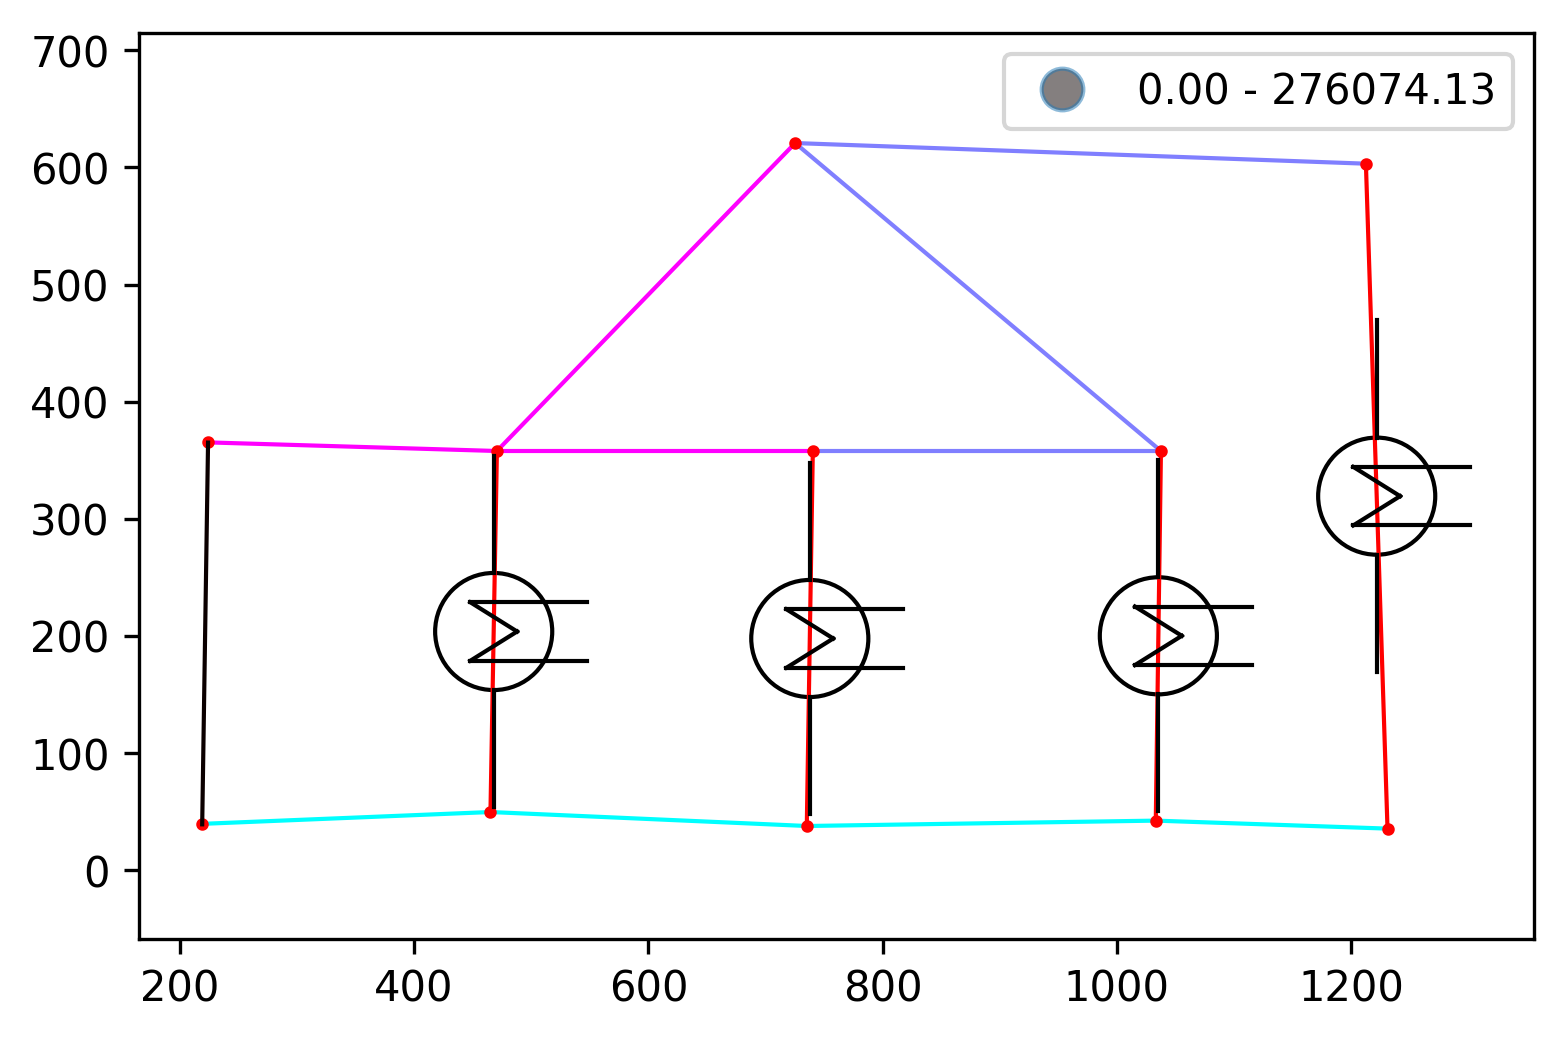
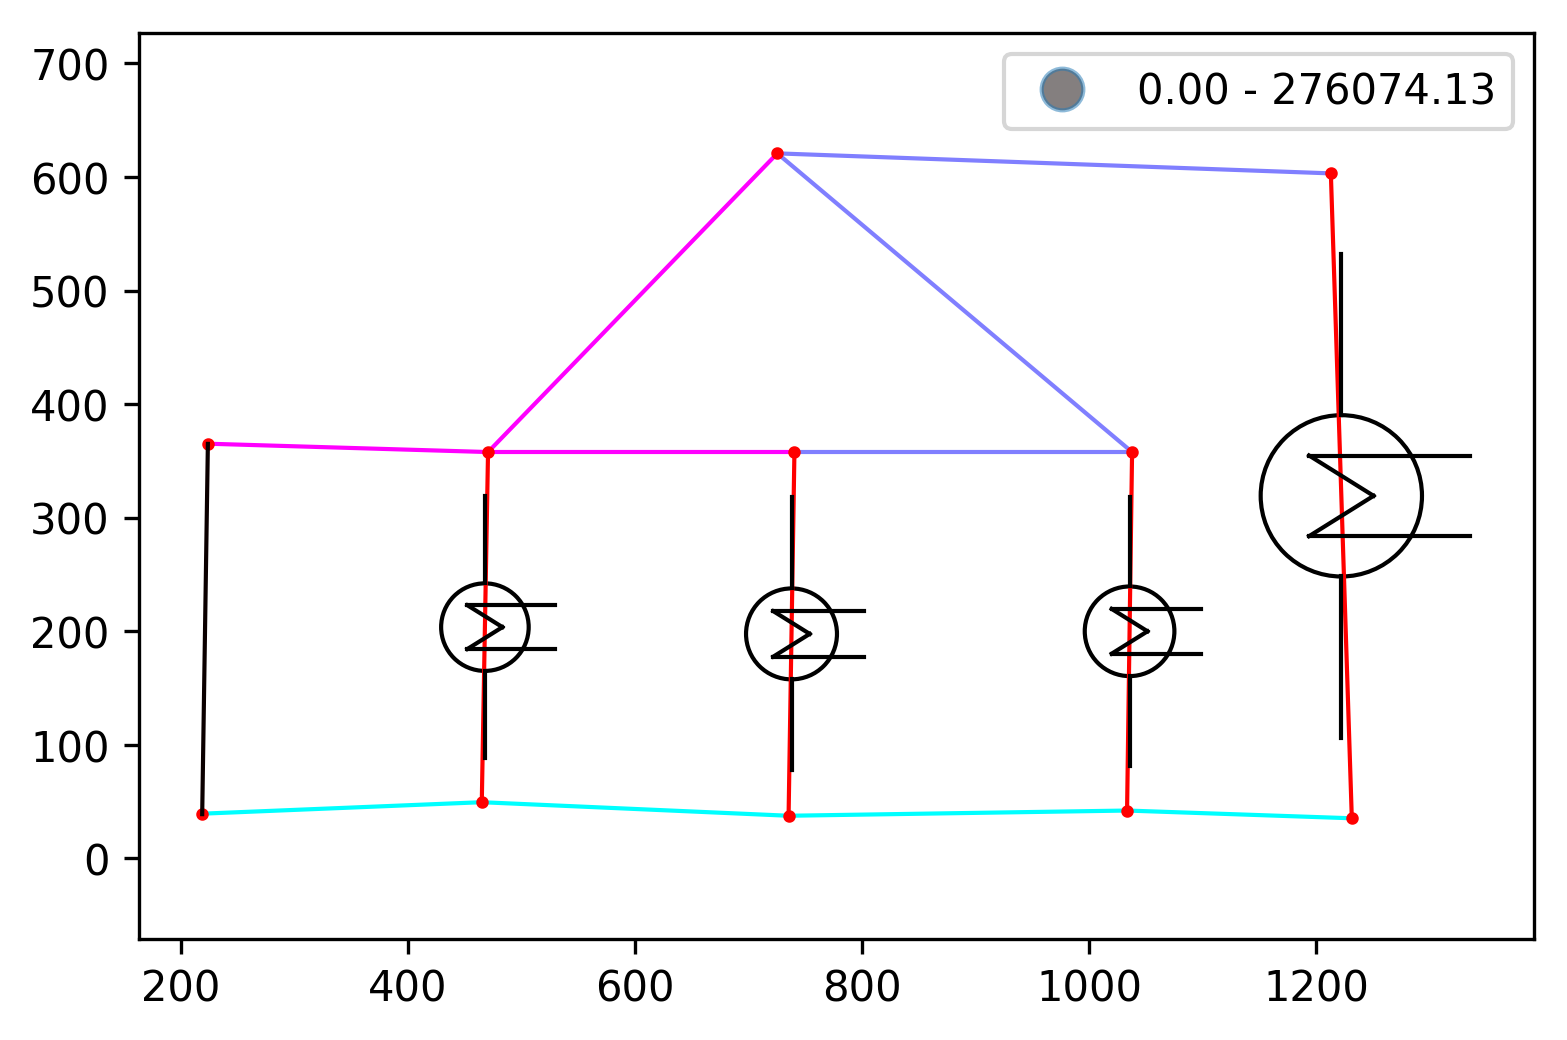
work on plotter

diff --git a/class/Plotter.py b/class/Plotter.py
@@ -495,19 +495,28 @@ class Plotter():
         gdf.plot(ax=ax, legend=True, color='red')
         
         lines_centroid = gdf.centroid
-        print(lines_centroid)
-        for item in lines_centroid:
-            self.heatExchanger(pointXY=item, scale=100, fig=fig, ax=ax)
+        lines_length = gdf.length
+        for center, l, sPoints, ePoints in zip(lines_centroid,
+                                                    lines_length,
+                                                    gdf['sPoints'],
+                                                    gdf['ePoints']):
+            rotation = np.arcsin(l / (sPoints.x-ePoints.x))
+            self.heatExchanger(pointXY=center, scale=l/4, rotation=rotation,
+                               fig=fig, ax=ax)
 #        fig.plot()
 
         return fig
 
     def heatExchanger(self, pointXY=Point(0, 0), scale=1,
+                      rotation=0,
                       fig=plt.figure(),
                       ax=plt.subplot()):
-        
+        # TODO implement plt.collection to speed up
+        # TODO use scale from gepandas to scale all lines
+        # TODO use translate to shift all lines
         x = pointXY.coords[0][0]
         y = pointXY.coords[0][1]
+        
         
         middle_circle = (x,y)
         radius = 0.5 * scale
@@ -535,6 +544,7 @@ class Plotter():
         lines = MultiLineString(coords)
 
         gdf = gp.GeoDataFrame({'lines':lines}, geometry='lines')
+        gdf = gdf.skew(rotation)
         
         '''################################'''
         '''next lines for test purposes'''
@@ -554,6 +564,6 @@ if __name__ == "__main__":
     print('Plotter \t\t run directly \n')
 
     testPlotter=Plotter(1,1,1)
-    testPlotter.heatExchanger(pointXY=Point(2,2), scale=1)
+    testPlotter.heatExchanger(pointXY=Point(2,2), scale=1, rotation=10)
 else:
     print('Plotter \t\t was imported into another module')
